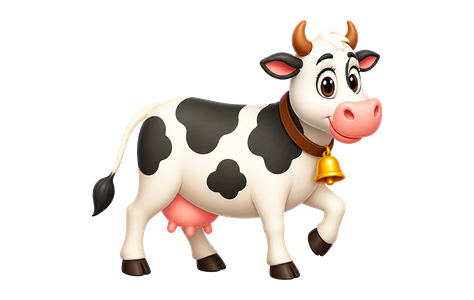
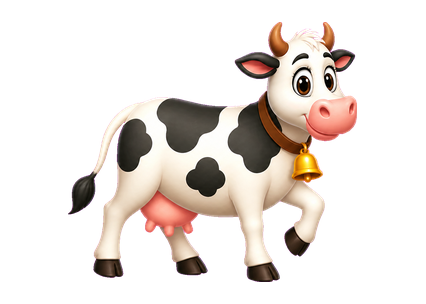
Swap in transparent cow PNGs and a playfield with no baked Holstein
Eat and walk stay PNG with real alpha so graze frames no longer draw a box. The v3 playfield drops the static cow. Tractor, barn, hay, stand, and garden fences use larger body-box blockers so the calf cannot walk over the hood. Plaques still show name, seeds, and points.

Changed region(s): [[0.1526, 0.06, 0.8545, 0.93], [0.3967, 0.48, 0.4577, 0.51], [0.3967, 0.3, 0.4272, 0.33]]

diff --git a/apps/player/src/pixi/playfieldLayout.ts b/apps/player/src/pixi/playfieldLayout.ts
@@ -1,19 +1,17 @@
 /**
- * UV anchors on `farmhand_painted_playfield_v2_blank_signs.jpg` (1536×1024).
+ * UV anchors on `farmhand_painted_playfield_v3_no_static_cow.jpg` (1536×1024).
  * Values are fractions of the texture (not the screen). Cover-fit the painting
  * and multiply by texture width/height to get local pixels.
  *
- * Measured on the v2 blank-sign painting:
+ * Measured on the v3 painting (no baked Holstein):
  *   exhaust tip  ~ (419, 258)  = UV (0.273, 0.252)  — mouth at the TOP of the
- *     vertical stack (the black pipe on the tractor hood, upper-left cluster).
- *     Not the pipe base on the red body (~430, 326). Smoke puffs rise from here.
+ *     vertical stack (the black pipe on the tractor hood).
  *   left sign    ~ (250, 496)  = UV (0.163, 0.484)
  *   center sign  ~ (760, 492)  = UV (0.495, 0.480)
  *   right sign   ~ (1221, 496) = UV (0.795, 0.484)
  *
- * A static Holstein / mama cow is baked into the grass. The animated calf
- * starts on a clear patch beside her and treats her (plus barn, tractor, hay,
- * market stand, and garden fences) as solid blockers.
+ * Only the animated cow is drawn. Barn, tractor, hay, market stand, and the
+ * three garden fences are solid blockers.
  */
 
 export type Uv = { u: number; v: number };
@@ -25,18 +23,17 @@ export const PLAYFIELD_TEXTURE = { width: 1536, height: 1024 } as const;
 export const PLAYFIELD_LAYOUT = {
   /** Mouth of the tractor’s vertical exhaust stack (texture px 419, 258). */
   exhaustTip: { u: 0.273, v: 0.252 } satisfies Uv,
-  /** Grass right of mama cow, left of the stand, above the garden fences. */
-  cowStart: { u: 0.58, v: 0.36 } satisfies Uv,
-  /** Barn-side meadow — stays above the garden fence line; props are holes. */
-  cowRoam: { u0: 0.08, v0: 0.16, u1: 0.64, v1: 0.4 } satisfies UvRect,
-  storeHit: { u0: 0.68, v0: 0.02, u1: 0.97, v1: 0.36 } satisfies UvRect,
-  /** Solid footprints the roaming cow must weave around (plus garden hits). */
+  /** Open grass right of the tractor, above the garden fences. */
+  cowStart: { u: 0.48, v: 0.38 } satisfies Uv,
+  /** Barn-side corridor — props punch holes; stays above the garden fence line. */
+  cowRoam: { u0: 0.12, v0: 0.22, u1: 0.62, v1: 0.4 } satisfies UvRect,
+  storeHit: { u0: 0.64, v0: 0.02, u1: 0.98, v1: 0.38 } satisfies UvRect,
+  /** Solid footprints — tractor chassis is intentionally large so the calf cannot climb the hood. */
   blockers: {
-    barn: { u0: 0.02, v0: 0.0, u1: 0.24, v1: 0.22 } satisfies UvRect,
-    hay: { u0: 0.0, v0: 0.08, u1: 0.12, v1: 0.24 } satisfies UvRect,
-    tractor: { u0: 0.18, v0: 0.14, u1: 0.32, v1: 0.33 } satisfies UvRect,
-    mamaCow: { u0: 0.4, v0: 0.18, u1: 0.5, v1: 0.32 } satisfies UvRect,
-    stand: { u0: 0.66, v0: 0.0, u1: 0.98, v1: 0.38 } satisfies UvRect,
+    barn: { u0: 0.0, v0: 0.0, u1: 0.26, v1: 0.26 } satisfies UvRect,
+    hay: { u0: 0.0, v0: 0.08, u1: 0.14, v1: 0.28 } satisfies UvRect,
+    tractor: { u0: 0.14, v0: 0.1, u1: 0.4, v1: 0.38 } satisfies UvRect,
+    stand: { u0: 0.64, v0: 0.0, u1: 0.99, v1: 0.4 } satisfies UvRect,
   },
   gardens: [
     {
@@ -109,7 +106,6 @@ export function cowForbiddenUv(
     layout.blockers.barn,
     layout.blockers.hay,
     layout.blockers.tractor,
-    layout.blockers.mamaCow,
     layout.blockers.stand,
     ...layout.gardens.map((garden) => garden.hit),
   ].map((rect) => padUvRect(rect, pad));
@@ -222,5 +218,5 @@ export function pickRoamTarget(
     const y = roam.y0 + rand() * (roam.y1 - roam.y0);
     if (!cowBodyHitsForbidden(x, y, forbidden)) return { x, y };
   }
-  return { x: roam.x0 + 12, y: roam.y1 - 12 };
+  return { x: roam.x1 - 24, y: roam.y1 - 16 };
 }

diff --git a/apps/player/src/pixi/paintedAssets.ts b/apps/player/src/pixi/paintedAssets.ts
@@ -5,16 +5,17 @@ export const CROP_STAGE_FRAMES = 4;
 /** Equal slice width on every crop sheet (1568 / 4). */
 export const CROP_FRAME_WIDTH = 392;
 
-/** Padded 4-frame eat/graze sheet (equal cells; Pixi insets so frames never share pixels). */
-export const COW_EAT_SHEET = { width: 1896, height: 300, frames: 4 } as const;
-/** Each standalone walk texture is one full cow on this canvas. */
-export const COW_WALK_FRAME = { width: 474, height: 300 } as const;
+/** Padded 4-frame eat/graze PNG with real alpha (equal cells; Pixi insets so frames never share pixels). */
+export const COW_EAT_SHEET = { width: 1704, height: 304, frames: 4 } as const;
+/** Each standalone walk PNG is one full cow on this canvas. */
+export const COW_WALK_FRAME = { width: 426, height: 304 } as const;
 
 export const PAINTED_ART = {
-  playfield: "/art/painted/farmhand_painted_playfield_v2_blank_signs.jpg",
+  playfield: "/art/painted/farmhand_painted_playfield_v3_no_static_cow.jpg",
   smoke: "/art/painted/tractor_exhaust_smoke_sheet.png",
-  /** Two separate textures — never sliced from a combined walk/eat sheet. */
+  /** Two separate PNGs with real alpha — never sliced from a combined walk/eat sheet. */
   cowWalk: ["/art/painted/cow_walk_frame_a.png", "/art/painted/cow_walk_frame_b.png"],
+  /** Must stay PNG so eat frames keep a transparent background. */
   cowEat: "/art/painted/cow_eat_sheet.png",
   crops: {
     corn: "/art/painted/plants/plant_corn_stages.png",

diff --git a/apps/player/src/pixi/playfieldLayout.test.ts b/apps/player/src/pixi/playfieldLayout.test.ts
@@ -34,23 +34,25 @@ test("cover-fit local pixels match the 1536×1024 painting", () => {
   assert.equal(Math.round(tip.y), 258);
 });
 
-test("cow blockers include barn, tractor, hay, mama cow, stand, and gardens", () => {
+test("cow blockers include barn, tractor, hay, stand, and gardens", () => {
   const keys = Object.keys(PLAYFIELD_LAYOUT.blockers);
-  for (const key of ["barn", "hay", "tractor", "mamaCow", "stand"]) {
+  for (const key of ["barn", "hay", "tractor", "stand"]) {
     assert.ok(keys.includes(key), key);
   }
-  assert.equal(cowForbiddenRects(1536, 1024).length, 8);
+  assert.ok(!keys.includes("mamaCow"));
+  assert.equal(cowForbiddenRects(1536, 1024).length, 7);
 });
 
 test("cow roam box never overlaps the three garden plots", () => {
   assert.equal(cowRoamAvoidsGardens(), true);
   const roam = uvRectToLocal(PLAYFIELD_LAYOUT.cowRoam, 1536, 1024);
   const forbidden = cowForbiddenRects(1536, 1024);
-  const target = pickRoamTarget(roam, forbidden, () => 0.5);
-  assert.equal(
-    forbidden.some((rect) => pointInRect(target.x, target.y, rect)),
-    false,
-  );
+  let n = 0;
+  const target = pickRoamTarget(roam, forbidden, () => {
+    n += 0.173;
+    return n % 1;
+  });
+  assert.equal(cowBodyHitsForbidden(target.x, target.y, forbidden), false);
 });
 
 test("cow start sits on clear grass, not inside a blocker", () => {

diff --git a/apps/player/src/pixi/paintedAssets.test.ts b/apps/player/src/pixi/paintedAssets.test.ts
@@ -8,6 +8,9 @@ test("walk uses two separate textures, not a combined walk/eat sheet", () => {
   assert.equal(PAINTED_ART.cowWalk[1], "/art/painted/cow_walk_frame_b.png");
   assert.equal(PAINTED_ART.cowEat, "/art/painted/cow_eat_sheet.png");
   assert.ok(!JSON.stringify(PAINTED_ART).includes("cow_walk_eat_sheet"));
+  assert.ok(PAINTED_ART.cowEat.endsWith(".png"));
+  assert.ok(PAINTED_ART.cowWalk.every((url) => url.endsWith(".png")));
+  assert.ok(PAINTED_ART.playfield.includes("v3_no_static_cow"));
 });
 
 test("eat sheet frames are equal, in-bounds, and do not share pixels", () => {

diff --git a/assets/ATTRIBUTION.md b/assets/ATTRIBUTION.md
@@ -10,10 +10,10 @@ Farm camera: ¾ painted landscape (barn left, market stall right, three fenced g
 
 | Asset | Source | License | Where |
 | --- | --- | --- | --- |
-| Painted farm playfield (barn, tractor, stall, three gardens with **blank** signs) | Original painted cartoon | original | `/art/painted/farmhand_painted_playfield_v2_blank_signs.jpg` — cover-fit. A grass Graphics fill (`#3d8a32`) sits underneath. |
+| Painted farm playfield (barn, tractor, stall, three gardens with **blank** signs, **no** baked cow) | Original painted cartoon | original | `/art/painted/farmhand_painted_playfield_v3_no_static_cow.jpg` — cover-fit. A grass Graphics fill (`#3d8a32`) sits underneath. |
 | Tractor exhaust smoke (6-frame puff) | Original painted sheet | original | `/art/painted/tractor_exhaust_smoke_sheet.png` — looped at UV `(0.273, 0.252)` ≈ px `(419, 258)` (mouth at the top of the vertical stack). |
 | Cow walk (2 standalone poses) | Original painted frames | original | `/art/painted/cow_walk_frame_a.png` + `cow_walk_frame_b.png` — loaded as two full textures (no sheet slice). Faces right only; left roam flips `scale.x = -1`. Anchor at the hooves. |
-| Cow eat/graze (4) | Original painted sheet | original | `/art/painted/cow_eat_sheet.png` — 4 equal padded cells; Pixi insets 2px. Old `cow_walk_eat_sheet*.png` is unused. |
+| Cow eat/graze (4) | Original painted PNG with real alpha | original | `/art/painted/cow_eat_sheet.png` — 4 equal padded cells; must stay PNG. Old `cow_walk_eat_sheet*.png` is unused. |
 | Live garden plaques | Pixi `Text` from `/api/farm` | — | Child **name** (primary) plus `seeds · pts` on each blank sign. Admin **Edit → Name** updates the same field; the farm polls every 8s. |
 | Garden close-up ground | Original generated painting | original | `/art/generated/ground/garden.jpg` |
 | Crop stages (corn, strawberry, cotton × seed/seedling/buds/ripe) | Original painted sheets | original | `/art/painted/plants/plant_*_stages.png` — Pixi on farm mounds + garden close-up. Names stay in UI text. |

diff --git a/apps/player/public/art/painted/README.md b/apps/player/public/art/painted/README.md
@@ -4,10 +4,10 @@ Texture is **1536×1024**. UV anchors (fractions of the painting) live in `apps/
 
 | File | Use |
 | --- | --- |
-| `farmhand_painted_playfield_v2_blank_signs.jpg` | Farm scene background (cover-fit). Three gardens have blank wooden signs. |
+| `farmhand_painted_playfield_v3_no_static_cow.jpg` | Farm scene background (cover-fit). No baked Holstein. Three gardens have blank wooden signs. |
 | `tractor_exhaust_smoke_sheet.png` | 6-frame horizontal smoke puff. Frame 264×563. Anchor bottom-center (`0.5, 0.92`) on the **pipe mouth** at UV `(0.273, 0.252)` ≈ pixel `(419, 258)` — top of the vertical stack, not the hood. |
 | `cow_walk_frame_a.png` / `cow_walk_frame_b.png` | Two standalone walk poses (**faces right only**). Loaded as two full textures — not sliced from a sheet. Loop for walk. Anchor feet `(0.5, 0.94)`. Left roam uses `scale.x = -1`. |
-| `cow_eat_sheet.png` | 4 equal padded graze cells (474×300). Pixi slices inset 2px so frames never share pixels. Do **not** use `cow_walk_eat_sheet*.png`. |
+| `cow_eat_sheet.png` | 4 equal padded graze cells (426×304) with **real alpha**. Pixi slices inset 2px. Must stay PNG. Do **not** use `cow_walk_eat_sheet*.png`. |
 | `plants/plant_*_stages.png` | 4-frame horizontal crop sheets (left→right: seed, seedling, buds, ripe). Frame width 392. Anchor ~0.5, 0.9 on each painted garden mound. Crop **names are not painted on the art** — Pixi/React labels use `/api` tier names. |
 
-A static Holstein is baked into the playfield near the barn. The animated cow starts on that grass and covers it when nearby; a slight double is accepted for v1.
+No Holstein is baked into the playfield. Only the animated calf is drawn; it weaves around barn, tractor, hay, stand, and garden fences.
